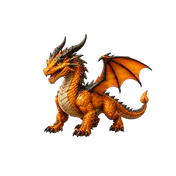
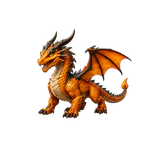
修正开盒代表图实际渲染尺寸

diff --git a/apps/web/src/shared/styles/gacha-page.css b/apps/web/src/shared/styles/gacha-page.css
@@ -206,6 +206,8 @@
 .app-shell .gacha-rarity-previews .preview-art {
   width: 46px;
   height: 46px;
+  display: grid;
+  place-items: center;
   padding: 2px;
   border: 1px solid rgba(223, 218, 207, 0.72);
   border-radius: 50%;
@@ -218,10 +220,17 @@
 .app-shell .gacha-rarity-previews .gacha-rarity-image,
 .app-shell .gacha-rarity-previews .image-missing {
   width: 100%;
-  height: 100%;
   border-radius: 50%;
   object-fit: cover;
   object-position: center top;
+}
+.app-shell .gacha-rarity-previews .gacha-rarity-image {
+  height: auto;
+  aspect-ratio: 1;
+  display: block;
+}
+.app-shell .gacha-rarity-previews .image-missing {
+  height: 100%;
 }
 .app-shell .gacha-rarity-previews article > strong {
   font-size: 7px;

diff --git a/apps/web/src/domains/gacha/ui/GachaView.tsx b/apps/web/src/domains/gacha/ui/GachaView.tsx
@@ -447,8 +447,8 @@ export function GachaView(): ReactNode {
                             className="gacha-rarity-image"
                             src={presentation.imageSrc}
                             alt={presentation.imageAlt}
-                            width={176}
-                            height={176}
+                            width={152}
+                            height={152}
                             loading="eager"
                             decoding="async"
                           />

diff --git a/docs/architecture/runtime.md b/docs/architecture/runtime.md
@@ -16,7 +16,7 @@ Telegram WebApp 在 `createRoot().render()` 前按 `ready → expand → disable
 
 进化确认通过 React Portal 挂载到 `document.body`，不进入藏品卡片或页面内容的层叠上下文。确认页固定覆盖主应用稳定视口，在 Telegram 内容顶部安全区下方开始布局，内部使用独立滚动区与位于设备底部安全区上方的固定操作区；确认页打开期间锁定根文档滚动，关闭后恢复原滚动状态。Catalog v1 产品数据构建同时生成 Web 专用的 140 条静态进化路线，打开确认页只读取该前端构建产物和页面已有库存、资产状态，不请求服务端进化预览；静态路线不参与提交后的保底或资产裁决。
 
-正式宠物母版永久保存在 Supabase Storage 私有桶 `art-masters`，公开桶 `pet-runtime` 保存当前 420 张运行时 WebP 与尚在 90 天保留期的旧对象；Git 只保存当前/历史资源清单、SHA-256 和发布工具。正式藏品列表直接读取 API 返回的 256×256 公开桶完整 URL，主视觉读取 768×768 公开桶完整 URL；这是浏览器唯一允许的 Supabase 直连，浏览器不加载 Supabase SDK、不持有 key，也不连接 Postgres、RPC、Auth 或其他 Data API。藏品主图按 [ADR-063](adr/ADR-063-inventory-hero-image-continuity.md) 在模板切换时先显示正确缩略图预览，详情图解码成功后替换；选中详情就绪后只串行准备当前 4×2 页其他详情图，页面不活动或文档隐藏时停止开始新图片。开盒页五张 176×176 透明 WebP 稀有度龙形代表图不是正式藏品图片，固定存放在 Web `shared/assets/gacha-rarity/` 并随 Vercel 版本发布，不进入 `pet-runtime`、目录批次或 `CatalogImage`，1254×1254 原图不进入仓库。正式藏品读取最终失败时保持布局并显示 Vercel 内置统一宠物剪影，后台有限重试且不显示后端相关文案。进化静态路线与 operation 持久结果只保存模板身份和业务字段，运行时图片在 API 读取时统一从当前目录映射解析；已打开页面不轮询或订阅资源 revision。
+正式宠物母版永久保存在 Supabase Storage 私有桶 `art-masters`，公开桶 `pet-runtime` 保存当前 420 张运行时 WebP 与尚在 90 天保留期的旧对象；Git 只保存当前/历史资源清单、SHA-256 和发布工具。正式藏品列表直接读取 API 返回的 256×256 公开桶完整 URL，主视觉读取 768×768 公开桶完整 URL；这是浏览器唯一允许的 Supabase 直连，浏览器不加载 Supabase SDK、不持有 key，也不连接 Postgres、RPC、Auth 或其他 Data API。藏品主图按 [ADR-063](adr/ADR-063-inventory-hero-image-continuity.md) 在模板切换时先显示正确缩略图预览，详情图解码成功后替换；选中详情就绪后只串行准备当前 4×2 页其他详情图，页面不活动或文档隐藏时停止开始新图片。开盒页五张 152×152 透明 WebP 稀有度龙形代表图不是正式藏品图片，固定存放在 Web `shared/assets/gacha-rarity/` 并随 Vercel 版本发布，不进入 `pet-runtime`、目录批次或 `CatalogImage`，1254×1254 原图不进入仓库。正式藏品读取最终失败时保持布局并显示 Vercel 内置统一宠物剪影，后台有限重试且不显示后端相关文案。进化静态路线与 operation 持久结果只保存模板身份和业务字段，运行时图片在 API 读取时统一从当前目录映射解析；已打开页面不轮询或订阅资源 revision。
 
 Battle 页面在同一 session generation 内保持挂载，并只渲染产品第 21 章的八种页面状态。好友挑战创建按钮提交后立即进入本地 `preparing_share` 交接状态；该交接只显示非成功性玩家反馈，并持续到同一命令的权威 room 已提交给 React 页面状态，禁止在 `team_select` 与权威 `preparing_share/waiting` 之间渲染 `home`。明确失败且没有房间事实时才撤销交接并回到原队伍选择；未知结果继续停留在准备页并复用原 operation 与 room 恢复。页面可见且 room 为邀请 `waiting` 时只有创建者每 5 秒发送纯展示心跳；room 为 `lobby_waiting/lobby_countdown` 时双方每 5 秒发送 participant presence 心跳；进入 `active_turn` 后立即停止。`lobby_waiting` 沿用红蓝双方卡、90 秒重连和 5 分钟时限；数据库进入 `lobby_countdown` 后立即改为全稳定视口的红蓝对决 3 秒专用页面，固定覆盖顶部资产栏、主导航与全部产品内按钮，显示“倒计时已锁定”“离开不会取消战斗”，不渲染取消、退出、分享或重新选队动作。每次可见/激活 `/game` 时段使用一个独立 UUID lease 和数据库快照的下一 lifecycle version，lease 内命令序号严格递增。页面隐藏、Telegram `deactivated`、`pagehide` 或离开 `/game` 时立即结束 lease、中止全部在途 heartbeat、停止 UI 轮询并尽力发送同 lease offline；重新可见、激活或返回时先读取不带动作游标的 REST 快照，把表现游标初始化为 `latest_action_sequence`，再申请并使用数据库认可的新 lease。新 lease 接管后旧 heartbeat/offline 永久无副作用，安全不依赖 abort 或 offline 必达；任何新旧 lease 与页面生命周期都不改变已经锁定的 countdown deadline。Ably client 只能 subscribe，通知只携带 `event_id`、`room_id`、`state_version` 与 `event_kind`；收到通知、deadline 到达或连接失败时，battle-realtime workflow 通过 REST 携带 `after_action_sequence` 读取 viewer-specific snapshot，按 sequence 补齐动作并串行排入表现队列。邀请 waiting、接受和 lobby 每 2 秒、`active_turn` 每 1 秒短轮询；deadline 到达后的权威读取失败或仍返回同一 deadline 时，即使 Ably 仍连接也继续按该节奏读取，直到权威状态前进或终结。当前会话持有未终局 room 时，bootstrap 的空 participation 只触发 room 读取，不能清空当前房间。权威 room 立即决定按钮和倒计时，表现动画不得遮挡操作；heartbeat/offline 普通响应只应用 room snapshot，同次请求或回正实际确认退款/释放终态时才一次刷新 `battle + assets + inventory`，不得由 5 秒心跳无条件刷新 assets/inventory。
 Battle 页面在同一 session generation 内保持挂载，并只渲染产品第 21 章的八种页面状态。好友挑战创建按钮提交后立即进入本地 `preparing_share` 交接状态；该交接只显示非成功性玩家反馈，并持续到同一命令的权威 room 已提交给 React 页面状态，禁止在 `team_select` 与权威 `preparing_share/waiting` 之间渲染 `home`。明确失败且没有房间事实时才撤销交接并回到原队伍选择；未知结果继续停留在准备页并复用原 operation 与 room 恢复。Battle 首次进入同步闭包只包含八状态、倒计时、REST 权威恢复、战场操作和核心样式；Ably SDK、技能轨迹播放器与轨迹样式分别动态加载。非首页权威状态和 Battle 内触摸、指针、键盘意图立即并行准备两类运行时；首页稳定后的 idle 准备只允许在前台 4G、非省流量条件下发生。Realtime token 与 Ably 模块并行取得，连接前继续既有 1—2 秒 REST 回正；技能命令不等待表现模块，下载中只显示“战斗准备中”且倒计时优先，失败则跳过重表现并继续应用权威事件。页面可见且 room 为邀请 `waiting` 时只有创建者每 5 秒发送纯展示心跳；room 为 `lobby_waiting/lobby_countdown` 时双方每 5 秒发送 participant presence 心跳；进入 `active_turn` 后立即停止。`lobby_waiting` 沿用红蓝双方卡、90 秒重连和 5 分钟时限；数据库进入 `lobby_countdown` 后立即改为全稳定视口的红蓝对决 3 秒专用页面，固定覆盖顶部资产栏、主导航与全部产品内按钮，显示“倒计时已锁定”“离开不会取消战斗”，不渲染取消、退出、分享或重新选队动作。每次可见/激活 `/game` 时段使用一个独立 UUID lease 和数据库快照的下一 lifecycle version，lease 内命令序号严格递增。页面隐藏、Telegram `deactivated`、`pagehide` 或离开 `/game` 时立即结束 lease、中止全部在途 heartbeat、停止 UI 轮询并尽力发送同 lease offline；重新可见、激活或返回时先读取不带动作游标的 REST 快照，把表现游标初始化为 `latest_action_sequence`，再申请并使用数据库认可的新 lease。新 lease 接管后旧 heartbeat/offline 永久无副作用，安全不依赖 abort 或 offline 必达；任何新旧 lease 与页面生命周期都不改变已经锁定的 countdown deadline。Ably client 只能 subscribe，通知只携带 `event_id`、`room_id`、`state_version` 与 `event_kind`；收到通知、deadline 到达或连接失败时，battle-realtime workflow 通过 REST 携带 `after_action_sequence` 读取 viewer-specific snapshot，按 sequence 补齐动作并串行排入表现队列。邀请 waiting、接受和 lobby 每 2 秒、`active_turn` 每 1 秒短轮询；deadline 到达后的权威读取失败或仍返回同一 deadline 时，即使 Ably 仍连接也继续按该节奏读取，直到权威状态前进或终结。当前会话持有未终局 room 时，bootstrap 的空 participation 只触发 room 读取，不能清空当前房间。权威 room 立即决定按钮和倒计时，表现动画不得遮挡操作；heartbeat/offline 普通响应只应用 room snapshot，同次请求或回正实际确认退款/释放终态时才一次刷新 `battle + assets + inventory`，不得由 5 秒心跳无条件刷新 assets/inventory。

diff --git a/开发记录.md b/开发记录.md
@@ -73,4 +73,4 @@
 73. 藏品操作按钮透明液态玻璃竖排：依据用户截图与裁决，将藏品页左侧“进化、分解、出售、Mint”从 `2 × 2` 四种独立配色改为从上到下单列竖排，统一使用淡紫画布透色、白色玻璃高光、紫色柔光、深蓝文字和橙色按下强调；保留四个正式立体图标、至少 `44px` 触控高度、原按钮顺序、禁用状态与全部点击逻辑，未修改 API、后端、数据库、资产结算或支付流程。
 74. Battle 实时客户端安全诊断：确认同一真实房间的 Ably token 签发与 outbox publish 成功、浏览器仍固定 1—2 秒回正，但原客户端吞掉连接与频道订阅失败原因；新增只含固定阶段、连接状态和整数 Ably 错误码的永久 Web Inspector 诊断，禁止身份、room、channel、token、capability、原始异常与请求响应内容，并将四处包含 REST/数据库实现细节的玩家提示统一为“实时连接暂不可用”恢复反馈，不改变实时、REST、数据库或业务状态。
 75. Battle Ably CSP 真机闭环与玩家文案收口：关闭并重开 Chrome 与 iPhone Telegram Mini App 后，两个新 WebView 均未产生 CSP 或脱敏实时失败诊断，固定 1—2 秒房间回正停止；真实双账号同档匹配中，后加入账号触发等待账号立即进入锁定倒计时，outbox 发布与随后单次房间刷新相互对应，确认此前持续离线来自未重开的旧 WebView，不存在剩余实时状态机缺陷。同时清理 Battle 玩家界面中服务器、服务端、数据库、后端、REST、Presence、前端、请求和权威状态等实现术语，保留规则导向的恢复、取消、倒计时与结算反馈，不改变 API、RPC、数据库、资产或战斗规则。
-76. 开盒稀有度龙形代表图替换：依据用户提供的编号 1—5 图片，按普通、稀有、史诗、传说、神话从左到右固定映射为白色幼龙、绿色飞龙、橙色飞龙、红色飞龙和黑金雷龙；只将去除粉紫背景后的 176×176 透明 WebP 成品写入项目，不保存 1254×1254 原图。保留当前按盲盒档次显示概率大于 0 的 3 或 4 项规则、概率、保底、开盒交互、API、后端和数据库不变。
+76. 开盒稀有度龙形代表图替换：依据用户提供的编号 1—5 图片，按普通、稀有、史诗、传说、神话从左到右固定映射为白色幼龙、绿色飞龙、橙色飞龙、红色飞龙和黑金雷龙；只将去除粉紫背景后的 152×152 透明 WebP 成品写入项目，不保存 1254×1254 原图。真实 iPhone Telegram 与 Safari Web Inspector 发现旧样式将方形图实际拉伸为 38×44 CSS px，现固定为 38×38 CSS px `1:1` 显示并精确提供 4 倍像素覆盖。保留当前按盲盒档次显示概率大于 0 的 3 或 4 项规则、概率、保底、开盒交互、API、后端和数据库不变。

diff --git a/docs/architecture/adr/ADR-024-gacha-rarity-representatives.md b/docs/architecture/adr/ADR-024-gacha-rarity-representatives.md
@@ -2,7 +2,7 @@
 
 ## 决定
 
-开盒页的稀有度代表区不显示星标或“可能获得”区块标题，只展示前端固定公示概率大于 `0` 的稀有度。普通、稀有、史诗、传说、神话分别固定使用用户提供的编号 `1`、`2`、`3`、`4`、`5` 龙形图，从左到右沿用 `普通 → 稀有 → 史诗 → 传说 → 神话` 的唯一顺序。五张运行时文件去除粉紫背景后保存为 176×176 透明 WebP，固定存放在 `apps/web/src/shared/assets/gacha-rarity/`，由 Vite 作为 Web 版本静态资源发布；1254×1254 原图不进入仓库。176×176 来自最终最大 44×44 CSS px 展示盒与小图标 4 倍屏幕像素覆盖，不裁切主体或改变源图构图。代表图不绑定 `template_id`，不表示任何具体藏品、候选集或单模板概率。
+开盒页的稀有度代表区不显示星标或“可能获得”区块标题，只展示前端固定公示概率大于 `0` 的稀有度。普通、稀有、史诗、传说、神话分别固定使用用户提供的编号 `1`、`2`、`3`、`4`、`5` 龙形图，从左到右沿用 `普通 → 稀有 → 史诗 → 传说 → 神话` 的唯一顺序。五张运行时文件去除粉紫背景后保存为 152×152 透明 WebP，固定存放在 `apps/web/src/shared/assets/gacha-rarity/`，由 Vite 作为 Web 版本静态资源发布；1254×1254 原图不进入仓库。最大 44×44 CSS px 外框扣除每边 `2px` 内边距和 `1px` 边框后，图片的实际方形展示区为 38×38 CSS px；152×152 精确提供小图标 4 倍屏幕像素覆盖。样式强制实际图片保持 `1:1`，不纵向拉伸、裁切主体或改变源图构图。代表图不绑定 `template_id`，不表示任何具体藏品、候选集或单模板概率。
 
 三档页面公示概率固定写入 `apps/web/src/shared/assets/gachaRarityPresentation.ts`：普通盲盒为普通 `72%`、稀有 `25%`、史诗 `3%`；稀有盲盒为普通 `20%`、稀有 `55%`、史诗 `22%`、传说 `3%`；传说盲盒为稀有 `18%`、史诗 `55%`、传说 `24%`、神话 `3%`。开盒页不使用目录 `image_thumbnail_url`，不调用 `useCatalogQuery()`，也不读取 `gacha.bootstrap.rarity_weights` 来决定代表项、目标档次筛选或概率文案。`gacha.bootstrap` 仍只为档次、价格、资格、保底和规则完整性提供权威状态。
 
